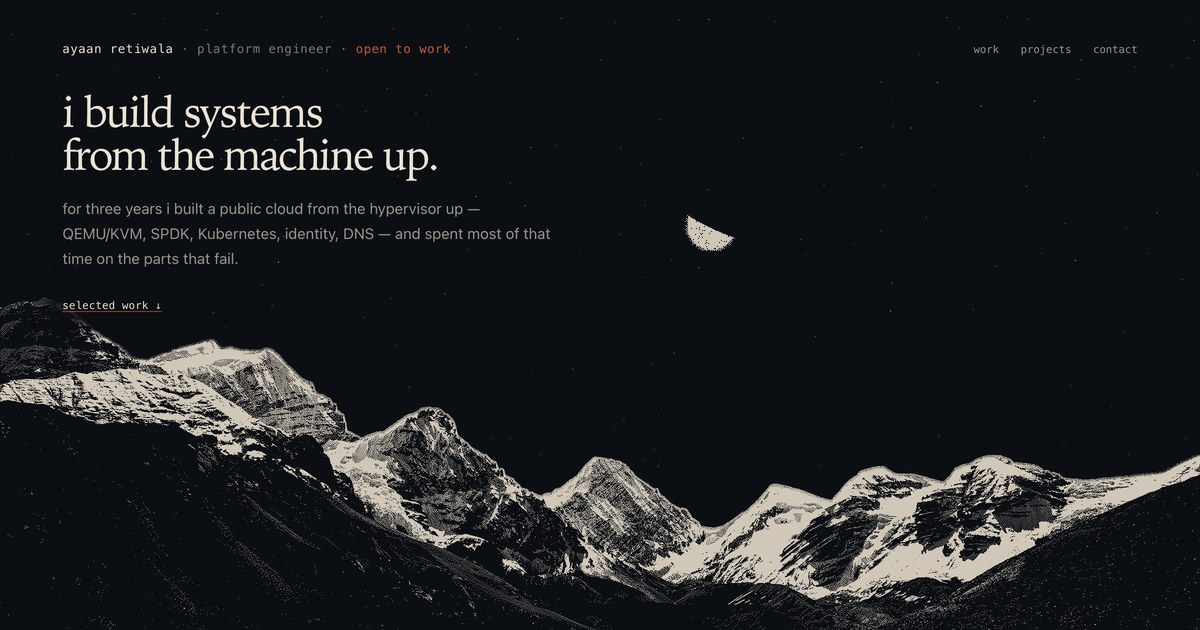
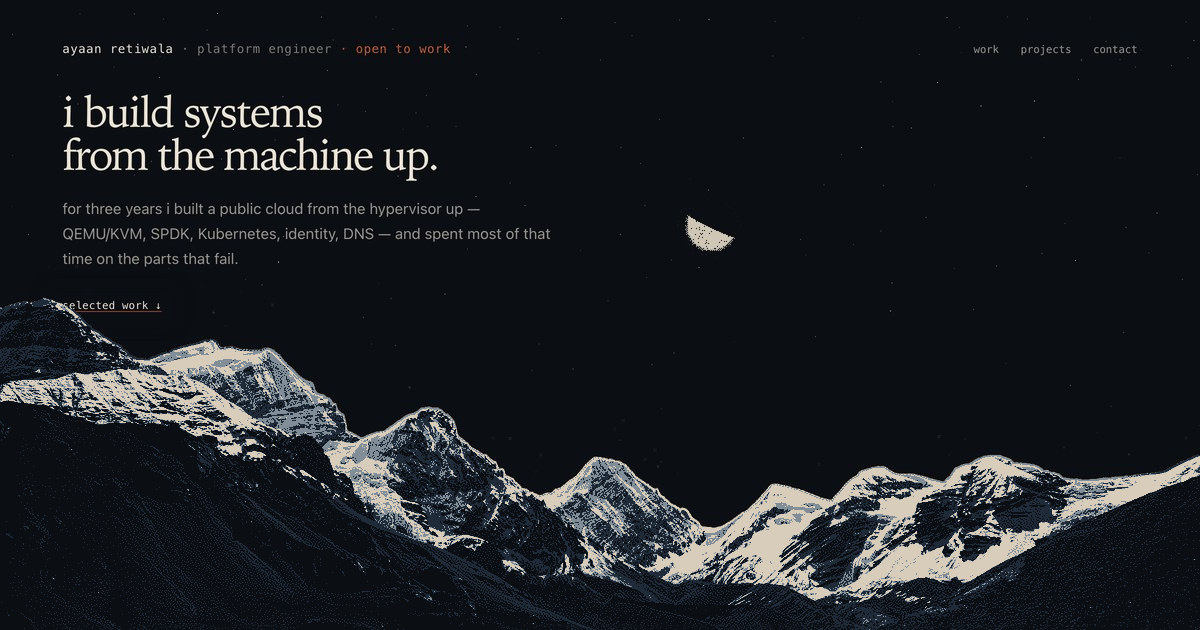
print the terrain in three inks instead of one
At 1 bit the plate had only "ink" and "nothing", so a lit snow field and a lit
rock face printed identically and the range came out a flat cutout. The fix is
in the quantiser, not the dither: atkinson keeps its kernel and its weights and
only the rounding changed, from a 0.5 threshold to four evenly spaced levels.
Same grain, more inks for it to land in.

Each theme gains a terrainRamp of three inks with a weight each. Night keeps the
old colour for the moonlit snow so the ridge line is unchanged, then cools
through the shadowed snow to the aerial haze. Day inverts with its tone curve --
tier 0 is the near rock there, not the snow -- so the ramp inverts too, full ink
up close going pale and blue into the distance. That is the aerial perspective
DAY_TONE_GAMMA already stretches, said in hue rather than in density.

terrainFlicker assumed one ink and one alpha for its whole batched fill, so it
now records which quantisation boundary each cell sits on, re-decides against
that boundary, and collects into one path per tier. The flicker band is divided
by the tier count to keep the flickering population, and so the amount of
visible movement, where it was at 1 bit. With the noise nudge at zero the
re-decision reproduces the baked tier exactly, so reduced motion needs no
special case.

Measured at 2400x1260, four runs a side: draw 4.90-5.21ms before against
5.05-5.18ms after, relayout 135-162ms against 130-158ms. Three fills a frame
instead of one is lost in the noise.
[…]

diff --git a/src/scripts/sky-v3.js b/src/scripts/sky-v3.js
@@ -47,6 +47,17 @@ import {
   var THEMES = {
     dark: {
       ink: "#e4dac8",
+      // The plate prints in three inks rather than one. Tier 0 is the moonlit
+      // snow and keeps the old colour, so the ridge line is unchanged; the two
+      // below it are the shadowed snow and the aerial haze, and they are cool
+      // because that is what moonlight on snow actually does. The bottom tier
+      // is deliberately faint -- it has to describe the near buttress without
+      // filling it in, or the range stops being a silhouette.
+      terrainRamp: [
+        { ink: "#ece0cb", weight: 1.00 },
+        { ink: "#94a2ad", weight: 0.95 },
+        { ink: "#3c5470", weight: 0.46 }
+      ],
       terrainAlpha: 0.91,
       dustAlpha: 0.23,
       star: "#eee6d8",
@@ -55,6 +66,15 @@ import {
     },
     light: {
       ink: "#293039",
+      // Day inverts the tone curve, so tier 0 is the near rock rather than the
+      // snow. The ramp inverts with it: full ink up close, and the distance
+      // going pale and blue the way a hazy ridge does at noon. This is the same
+      // aerial perspective DAY_TONE_GAMMA already stretches, said in hue.
+      terrainRamp: [
+        { ink: "#232a34", weight: 1.00 },
+        { ink: "#4a5a6d", weight: 0.90 },
+        { ink: "#7d8b9a", weight: 0.44 }
+      ],
       terrainAlpha: 0.87,
       dustAlpha: 0.18,
       star: "#293039",
@@ -72,13 +92,20 @@ import {
   // 20MB at 2x, twenty-four times a second -- which is the single most expensive
   // thing the page did, and which Safari handles far worse than Chrome.
   var terrainCanvas = null;
-  var terrainInk = "#000000";
-  var terrainFlickerAlpha = 1;
+  var terrainInk = [];
+  var terrainFlickerAlpha = [];
 
   // Mid-tone terrain cells, the only ones whose dither decision can realistically
   // flip. Re-deciding these against a noise-nudged threshold each frame is what
   // makes the whole mountain breathe rather than just the sun.
   var terrainFlicker = null;
+
+  // Ink tiers, densest first. The quantiser has TERRAIN_TIERS + 1 levels: tiers
+  // 0..TERRAIN_TIERS-1 print, and tier TERRAIN_TIERS is bare paper. Four levels
+  // rather than two is the change that matters -- at 1 bit the plate had only
+  // "ink" and "nothing", so a lit snow field and a lit rock face printed
+  // identically and the whole range came out a flat cutout.
+  var TERRAIN_TIERS = 3;
   var TERRAIN_BAND = 0.14;
   var TERRAIN_AMP = 0.15;
   var TERRAIN_BUDGET = 7000;
@@ -241,6 +268,11 @@ import {
     activeWork[y * width + x] += error;
   }
 
+  // Error diffusion, now quantising to TERRAIN_TIERS + 1 evenly spaced tones
+  // instead of to black and white. The kernel and its weights are untouched --
+  // only the quantiser changed -- so the grain is the same grain, it just has
+  // more inks to land in. Returns the tier per cell: 0 is the densest ink,
+  // TERRAIN_TIERS is bare paper.
   function atkinson(paper, skyline) {
     activeWork = new Float32Array(paper);
     var dots = new Uint8Array(width * height);
@@ -251,12 +283,14 @@ import {
 
         if (y < skyline[x]) {
           activeWork[i] = 1;
+          dots[i] = TERRAIN_TIERS;
           continue;
         }
 
         var old = activeWork[i];
-        var quantized = old >= 0.5 ? 1 : 0;
-        dots[i] = quantized ? 0 : 1;
+        var level = Math.round(clamp(old, 0, 1) * TERRAIN_TIERS);
+        var quantized = level / TERRAIN_TIERS;
+        dots[i] = level;
         var error = (old - quantized) * 0.125;
         if (!error) continue;
 
@@ -271,6 +305,21 @@ import {
 
     activeWork = null;
     return dots;
+  }
+
+  // The plate is a baked bitmap, so the theme's ink is baked in with it and no
+  // amount of per-frame work can fix it up -- the colour is in the bytes. The
+  // theme flips at -6, so crossing that needs a relayout.
+  //
+  // This is why a visitor who sat on the page through sunset used to keep the
+  // day plate under a night sky: updateSky refreshes the ephemeris on a timer
+  // but has never relayouted, and only a resize would have corrected it. It
+  // matters more now that the plate carries three inks rather than one, since
+  // the two ramps differ by more than a single ink did.
+  //
+  // The cost is one re-dither per twilight, not one per frame.
+  function plateIsStale() {
+    return !!state && state.dark !== isNight();
   }
 
   function makeTerrain(luminance, skyline) {
@@ -300,17 +349,26 @@ import {
     var dots = atkinson(paper, skyline);
     terrainImage = ctx.createImageData(width, height);
     var output = terrainImage.data;
-    var rgb = parseInt(activeTheme.ink.replace("#", ""), 16);
-    var red = (rgb >> 16) & 255;
-    var green = (rgb >> 8) & 255;
-    var blue = rgb & 255;
+    var ramp = activeTheme.terrainRamp;
+    var rampRed = [];
+    var rampGreen = [];
+    var rampBlue = [];
+
+    for (var t = 0; t < TERRAIN_TIERS; t++) {
+      var rgb = parseInt(ramp[t].ink.replace("#", ""), 16);
+      rampRed[t] = (rgb >> 16) & 255;
+      rampGreen[t] = (rgb >> 8) & 255;
+      rampBlue[t] = rgb & 255;
+    }
+
     var edgeDepth = Math.max(3, Math.round(4 * dpr));
     var seed = width * 13 + height * 29 + 701;
 
     var candidates = [];
 
     for (var index = 0; index < dots.length; index++) {
-      if (!dots[index]) continue;
+      var tierIndex = dots[index];
+      if (tierIndex >= TERRAIN_TIERS) continue;
 
       var py = Math.floor(index / width);
       var px = index - py * width;
@@ -320,45 +378,64 @@ import {
       if (distance < edgeDepth && hash2(px, py, seed) < (1 - edgeMix) * 0.10) continue;
 
       var p = index * 4;
-      var alpha = Math.round(activeTheme.terrainAlpha * 255 * (0.78 + edgeMix * 0.22));
-      output[p] = red;
-      output[p + 1] = green;
-      output[p + 2] = blue;
+      var alpha = Math.round(
+        activeTheme.terrainAlpha * 255 * ramp[tierIndex].weight * (0.78 + edgeMix * 0.22)
+      );
+      output[p] = rampRed[tierIndex];
+      output[p + 1] = rampGreen[tierIndex];
+      output[p + 2] = rampBlue[tierIndex];
       output[p + 3] = alpha;
 
-      // Only mid-tones can flip. Anything solidly lit or solidly dark stays put,
-      // which is what keeps the ridge line and the snow fields stable.
+      // Only tones sitting on a quantisation boundary can flip. Anything solidly
+      // inside a tier stays put, which is what keeps the ridge line and the snow
+      // fields stable. There are TERRAIN_TIERS boundaries now rather than one, so
+      // the band around each is scaled down to keep the flickering population --
+      // and therefore the amount of visible movement -- where it was at 1 bit.
       var tone = paper[index];
-      if (tone > 0.5 - TERRAIN_BAND && tone < 0.5 + TERRAIN_BAND) candidates.push(index, alpha);
+      var boundary = Math.floor(tone * TERRAIN_TIERS);
+      if (boundary >= TERRAIN_TIERS) boundary = TERRAIN_TIERS - 1;
+      var edgeTone = (boundary + 0.5) / TERRAIN_TIERS;
+      if (Math.abs(tone - edgeTone) < TERRAIN_BAND / TERRAIN_TIERS) {
+        candidates.push(index, 0.78 + edgeMix * 0.22, boundary);
+      }
     }
 
     // Sample down to a fixed budget so the per-frame cost does not scale with
     // resolution: on a 2x display the raw candidate set is tens of thousands.
-    var pairs = candidates.length / 2;
-    var step = Math.max(1, Math.ceil(pairs / TERRAIN_BUDGET));
-    var kept = Math.floor(pairs / step);
+    var triples = candidates.length / 3;
+    var step = Math.max(1, Math.ceil(triples / TERRAIN_BUDGET));
+    var kept = Math.floor(triples / step);
     terrainFlicker = kept ? {
       index: new Int32Array(kept),
-      tone: new Float32Array(kept)
+      tone: new Float32Array(kept),
+      boundary: new Uint8Array(kept)
     } : null;
 
-    var alphaSum = 0;
+    var edgeSum = 0;
     for (var k = 0, c = 0; k < kept; k++, c += step) {
-      var src = c * 2;
+      var src = c * 3;
       var cell = candidates[src];
       terrainFlicker.index[k] = cell;
       terrainFlicker.tone[k] = paper[cell];
-      alphaSum += candidates[src + 1];
+      terrainFlicker.boundary[k] = candidates[src + 2];
+      edgeSum += candidates[src + 1];
       // Baked with the flicker cells off, so each frame only has to add the ones
       // currently lit rather than rewrite the whole bitmap.
       output[cell * 4 + 3] = 0;
     }
 
-    // One alpha for the whole flickering set. They span 0.78 to 1.0 of the
-    // terrain alpha, and a single value lets every cell go down in one fill
-    // instead of thousands of state changes.
-    terrainFlickerAlpha = kept ? (alphaSum / kept) / 255 : 1;
-    terrainInk = activeTheme.ink;
+    // One alpha per tier for the whole flickering set. Within a tier the cells
+    // span 0.78 to 1.0 of the terrain alpha, and a single value per tier lets
+    // each one go down in a single fill rather than thousands of state changes.
+    // Three fills a frame instead of one is the entire cost of the extra inks.
+    var edgeAverage = kept ? edgeSum / kept : 1;
+    terrainFlickerAlpha = [];
+    terrainInk = [];
+
+    for (t = 0; t < TERRAIN_TIERS; t++) {
+      terrainFlickerAlpha[t] = activeTheme.terrainAlpha * ramp[t].weight * edgeAverage;
+      terrainInk[t] = ramp[t].ink;
+    }
 
     if (!terrainCanvas) terrainCanvas = document.createElement("canvas");
     terrainCanvas.width = width;
@@ -372,21 +449,39 @@ import {
     if (!terrainFlicker) return;
     var idx = terrainFlicker.index;
     var tone = terrainFlicker.tone;
-    var path = new Path2D();
+    var boundary = terrainFlicker.boundary;
+    var paths = [];
     var drew = false;
 
     for (var i = 0; i < idx.length; i++) {
-      if (!reducedMotion && tone[i] >= 0.5 + flickerOffset(idx[i] * 0.0137, now, TERRAIN_AMP)) continue;
+      // Re-decide the cell against its own boundary, nudged by noise. With the
+      // nudge at zero this reproduces the baked tier exactly, which is why the
+      // reduced-motion path can simply skip the offset instead of special-casing.
+      var edge = boundary[i];
+      var threshold = (edge + 0.5) / TERRAIN_TIERS;
+      if (!reducedMotion) {
+        threshold += flickerOffset(idx[i] * 0.0137, now, TERRAIN_AMP / TERRAIN_TIERS);
+      }
+
+      var tier = tone[i] < threshold ? edge : edge + 1;
+      if (tier >= TERRAIN_TIERS) continue;
+      if (!paths[tier]) paths[tier] = new Path2D();
+
       var cell = idx[i];
       var y = (cell / width) | 0;
-      path.rect(cell - y * width, y, 1, 1);
+      paths[tier].rect(cell - y * width, y, 1, 1);
       drew = true;
     }
 
     if (!drew) return;
-    ctx.globalAlpha = terrainFlickerAlpha;
-    ctx.fillStyle = terrainInk;
-    ctx.fill(path);
+
+    for (var t = 0; t < TERRAIN_TIERS; t++) {
+      if (!paths[t]) continue;
+      ctx.globalAlpha = terrainFlickerAlpha[t];
+      ctx.fillStyle = terrainInk[t];
+      ctx.fill(paths[t]);
+    }
+
     ctx.globalAlpha = 1;
   }
 
@@ -859,7 +954,15 @@ import {
     if (!state || reducedMotion || !visible || now - lastDraw < 1000 / 24) return;
     lastDraw = now;
 
-    if (Date.now() - lastCelestialUpdate >= CELESTIAL_REFRESH_MS) updateSky();
+    if (Date.now() - lastCelestialUpdate >= CELESTIAL_REFRESH_MS) {
+      updateSky();
+
+      if (plateIsStale()) {
+        var wasDark = state.dark;
+        layoutPlate();
+        if (state.dark !== wasDark) window.dispatchEvent(new Event("skyphasechange"));
+      }
+    }
 
     if (state.dark && !comet.active && now >= comet.next) scheduleComet(now);
     if (state.dark && !satellite.active && now >= satellite.next) scheduleSatellite(now);
@@ -919,7 +1022,7 @@ import {
       // the state that matches it. On a day/night flip they would cache the old
       // one and, in night-sky-v2's case, paint its night ridge mask over a
       // daylit mountain. Relayout first, then tell them again.
-      if (state && state.dark !== isNight()) {
+      if (plateIsStale()) {
         layoutPlate();
         if (state.dark !== wasDark) window.dispatchEvent(new Event("skyphasechange"));
       }
